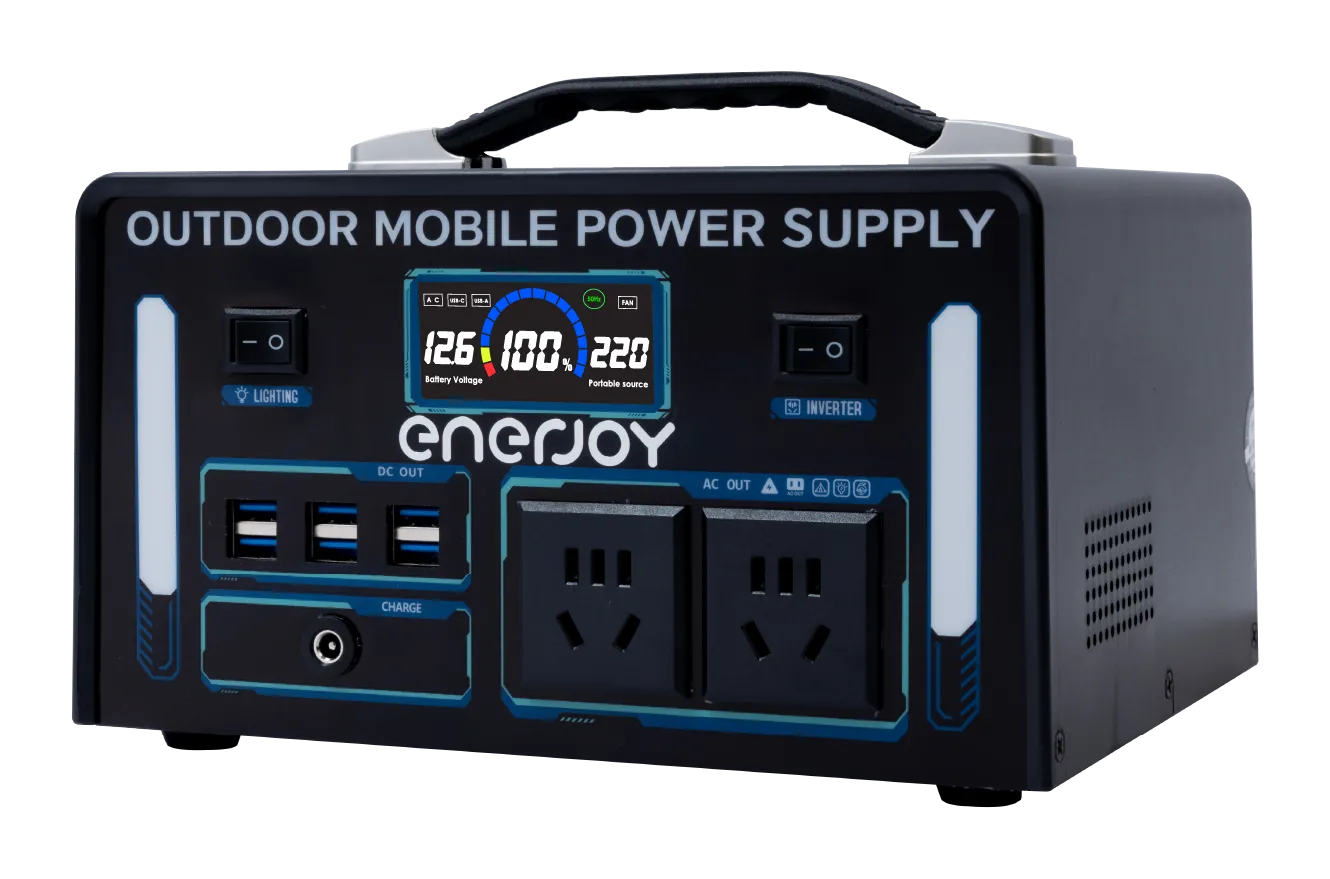
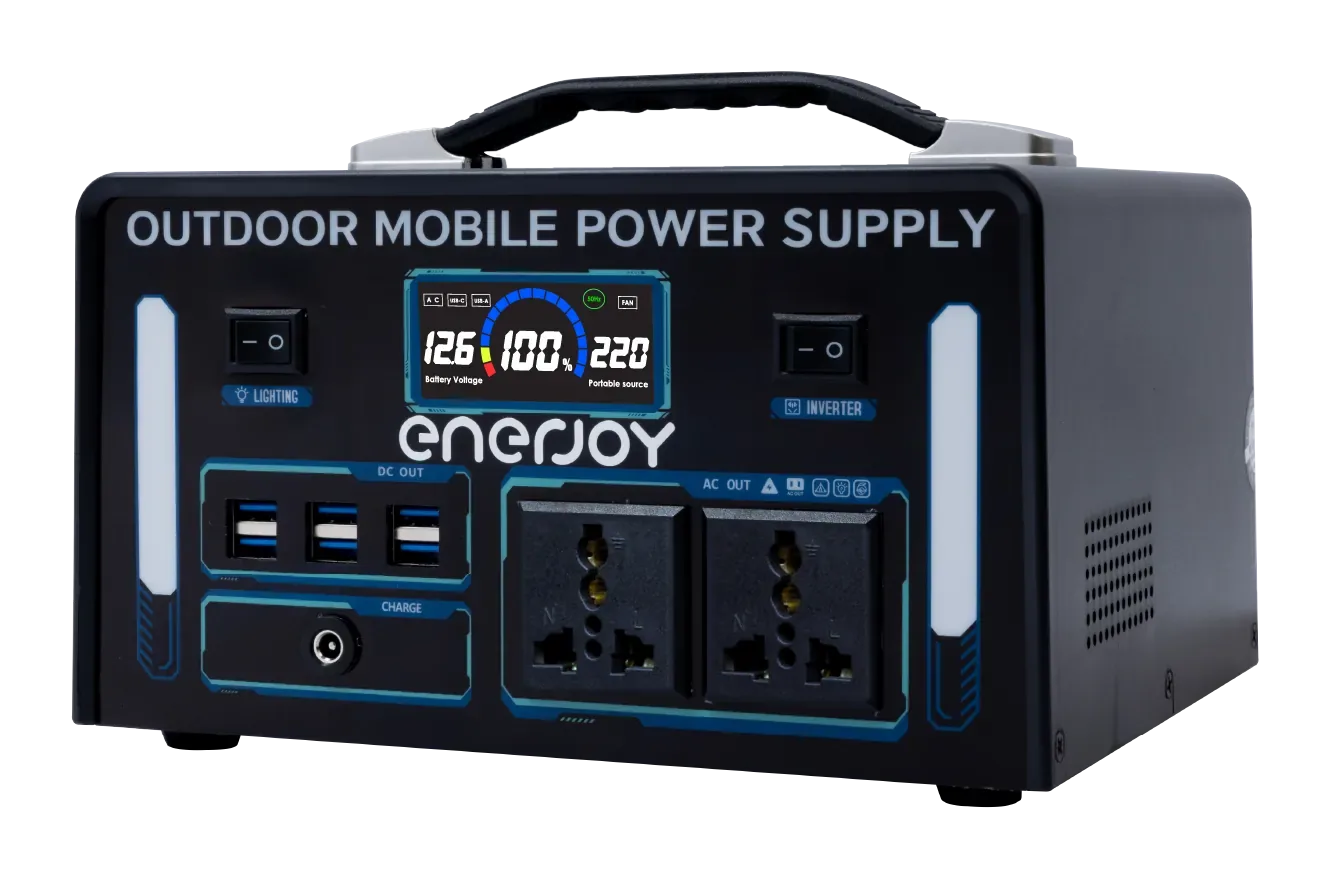
Thêm ảnh mặt trái, mặt phải 400W (ổ cắm đa năng như 500W)
Claude-Session: https://claude.ai/code/session_01N1ocCqmD2d4U4HLTzjUwJW

Changed region(s): [[0.4008, 0.5836, 0.4932, 0.7679], [0.5241, 0.5836, 0.6474, 0.7986]]

diff --git a/public/tram-sac-400w/index.html b/public/tram-sac-400w/index.html
@@ -34,7 +34,7 @@ document.addEventListener('click',function(e){var a=e.target.closest('a');if(!a)
 <nav class="crumb" aria-label="Đường dẫn"><a href="/">Trang chủ</a> / <span>Trạm sạc ENERJOY 400W</span></nav>
 
 <article class="pd">
-  <div class="gal"><img src="/img/tram-sac-400W.webp" alt="Trạm sạc ENERJOY 400W" loading="eager"><img src="/img/thuc-te/400w-1.webp" alt="Trạm sạc ENERJOY 400W ảnh thực tế 1" loading="lazy"><img src="/img/thuc-te/400w-2.webp" alt="Trạm sạc ENERJOY 400W ảnh thực tế 2" loading="lazy"><img src="/img/thuc-te/400w-3.webp" alt="Trạm sạc ENERJOY 400W ảnh thực tế 3" loading="lazy"></div>
+  <div class="gal"><img src="/img/tram-sac-400W.webp" alt="Trạm sạc ENERJOY 400W" loading="eager"><img src="/img/goc/400w-trai.webp" alt="Trạm sạc ENERJOY 400W ảnh thực tế 1" loading="lazy"><img src="/img/goc/400w-phai.webp" alt="Trạm sạc ENERJOY 400W ảnh thực tế 2" loading="lazy"><img src="/img/thuc-te/400w-1.webp" alt="Trạm sạc ENERJOY 400W ảnh thực tế 3" loading="lazy"><img src="/img/thuc-te/400w-2.webp" alt="Trạm sạc ENERJOY 400W ảnh thực tế 4" loading="lazy"><img src="/img/thuc-te/400w-3.webp" alt="Trạm sạc ENERJOY 400W ảnh thực tế 5" loading="lazy"></div>
   <div class="info">
     <h1>Trạm sạc dự phòng ENERJOY 400W</h1>
     <p class="lead">Cắm trại, dã ngoại. Quạt, đèn, wifi khi mất điện. Sạc điện thoại, laptop.</p>

diff --git a/public/products.js b/public/products.js
@@ -29,7 +29,7 @@ window.SHOP = {
 // =====================================================
 window.PRODUCTS = [
   {
-    id: "400w", photos: ["img/thuc-te/400w-1.webp", "img/thuc-te/400w-2.webp", "img/thuc-te/400w-3.webp"], bestSeller: true, name: "Trạm sạc ENERJOY 400W", watt: 400, sold: null, img: "img/tram-sac-400W.webp",
+    id: "400w", photos: ["img/goc/400w-trai.webp", "img/goc/400w-phai.webp", "img/thuc-te/400w-1.webp", "img/thuc-te/400w-2.webp", "img/thuc-te/400w-3.webp"], bestSeller: true, name: "Trạm sạc ENERJOY 400W", watt: 400, sold: null, img: "img/tram-sac-400W.webp",
     ports: ["1 đèn LED", "2 ổ AC 220V", "6 cổng USB"],
     useFor: ["Cắm trại, dã ngoại", "Quạt, đèn, wifi khi mất điện", "Sạc điện thoại, laptop"],
     variants: [

diff --git a/public/index.html b/public/index.html
@@ -369,6 +369,7 @@ tr.no{background:rgba(220,38,38,.07)}tr.no th a{color:#DC2626}tr.no td span{colo
 
 
 
+
 <!--seo-head-->
 <link rel="canonical" href="https://web-tr-m-c-ng-ngh-joy.vercel.app/">
 <meta property="og:type" content="website">
